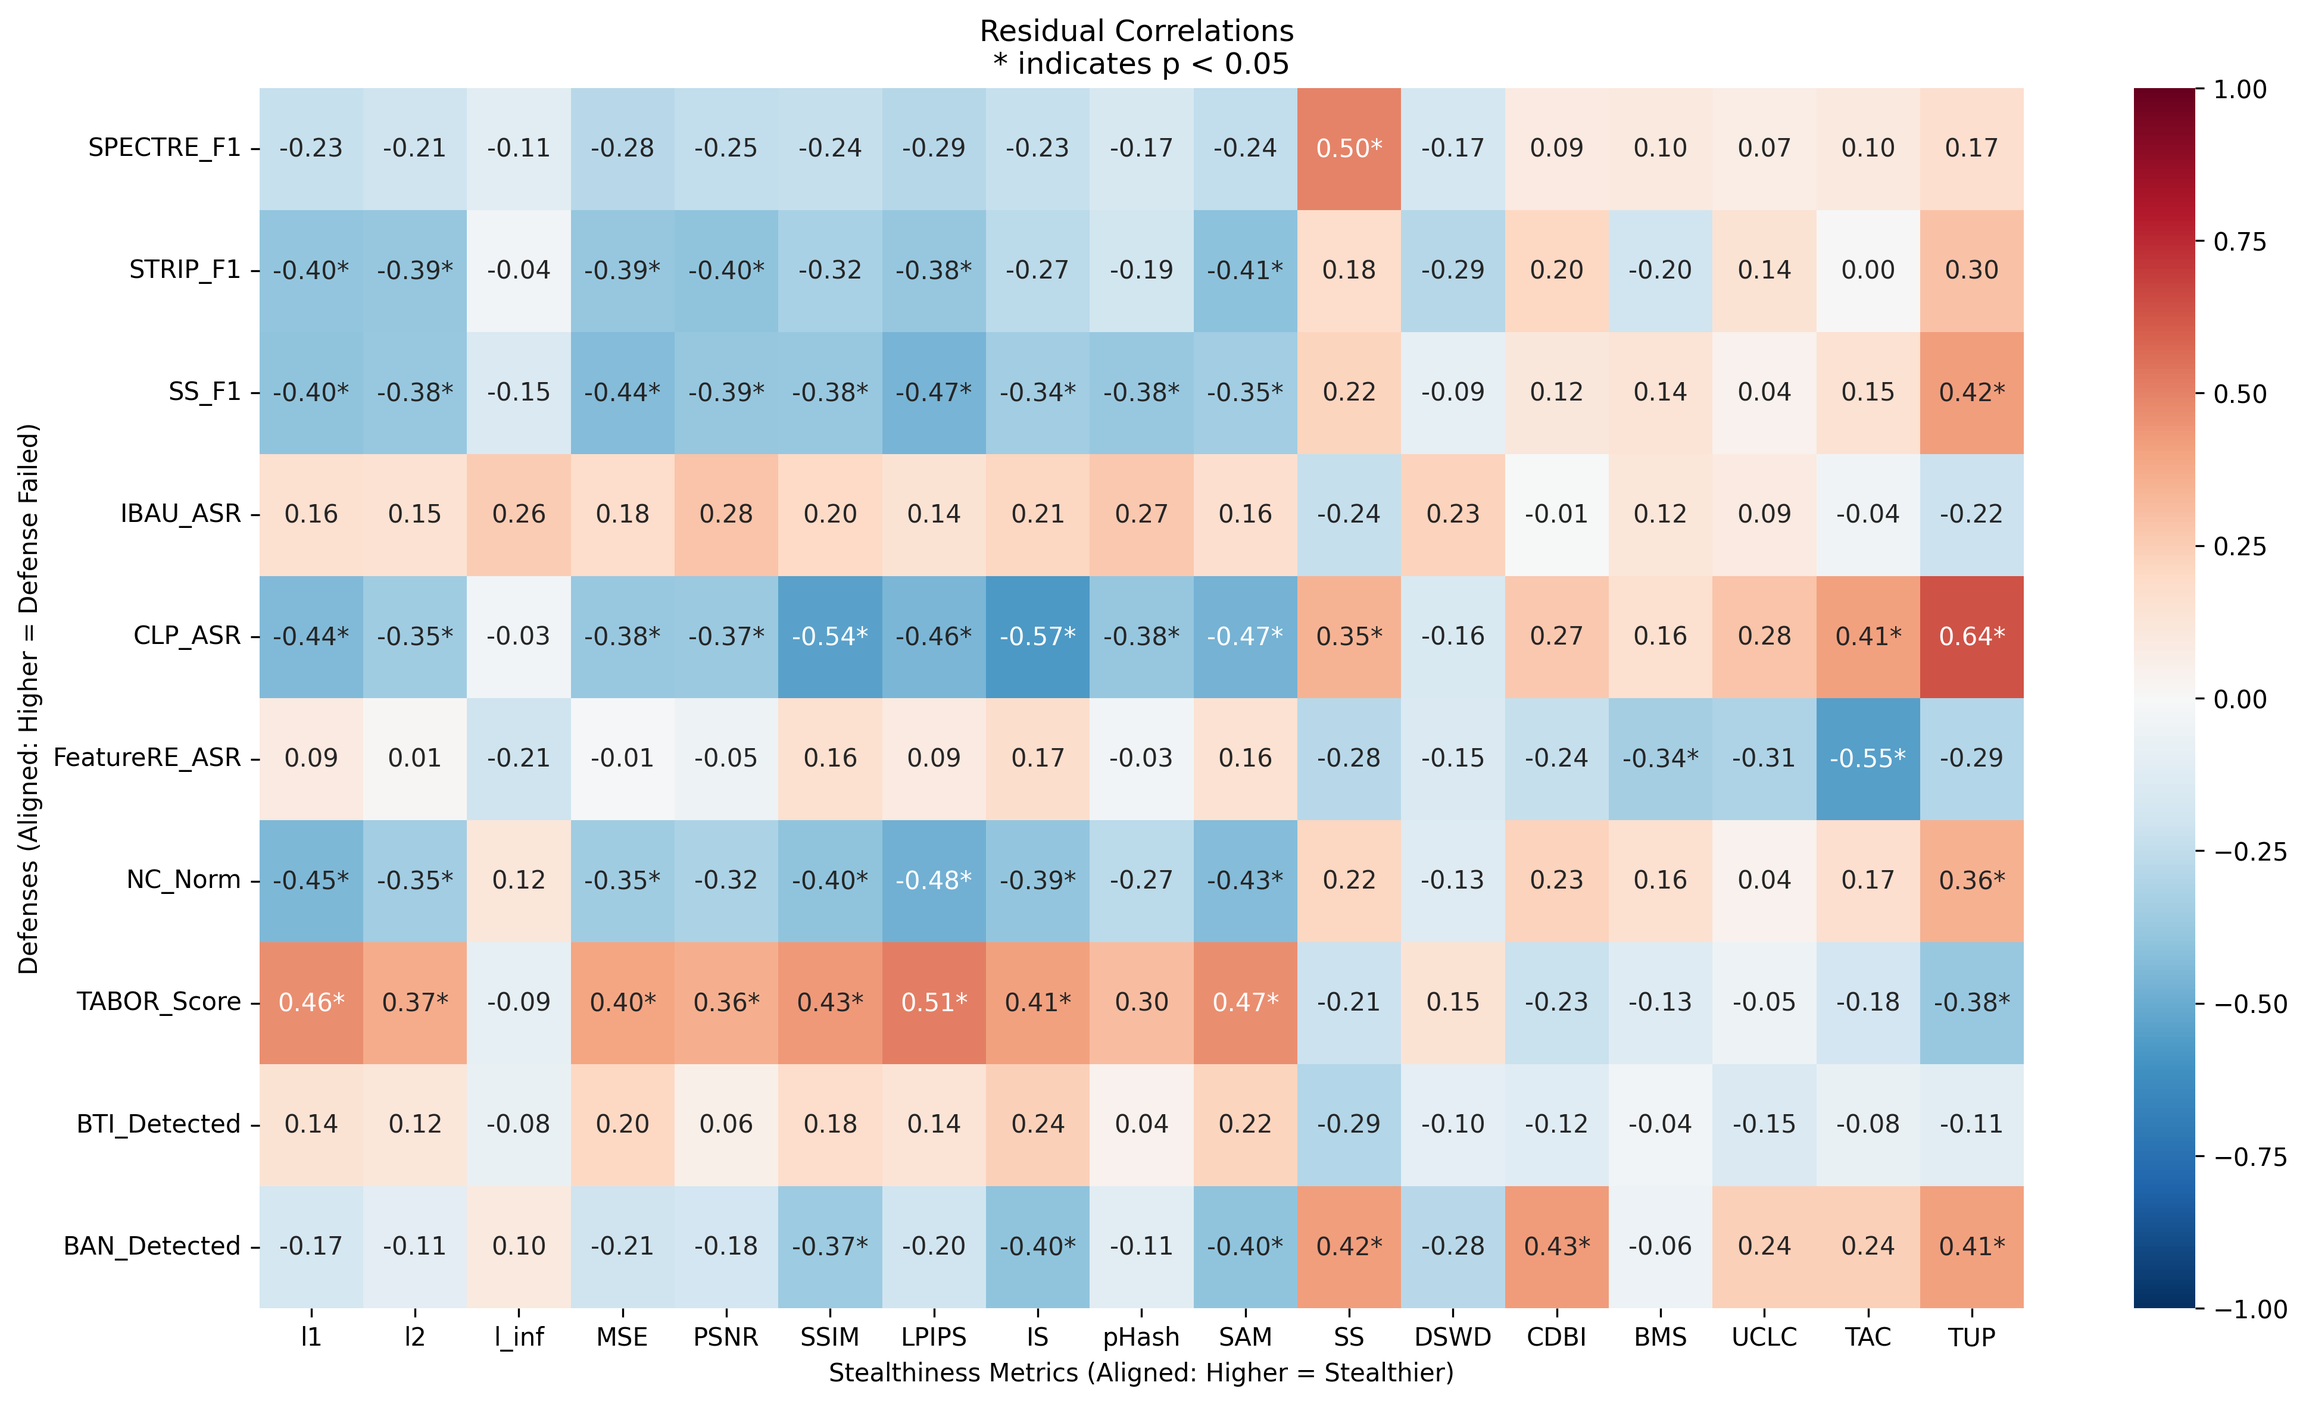
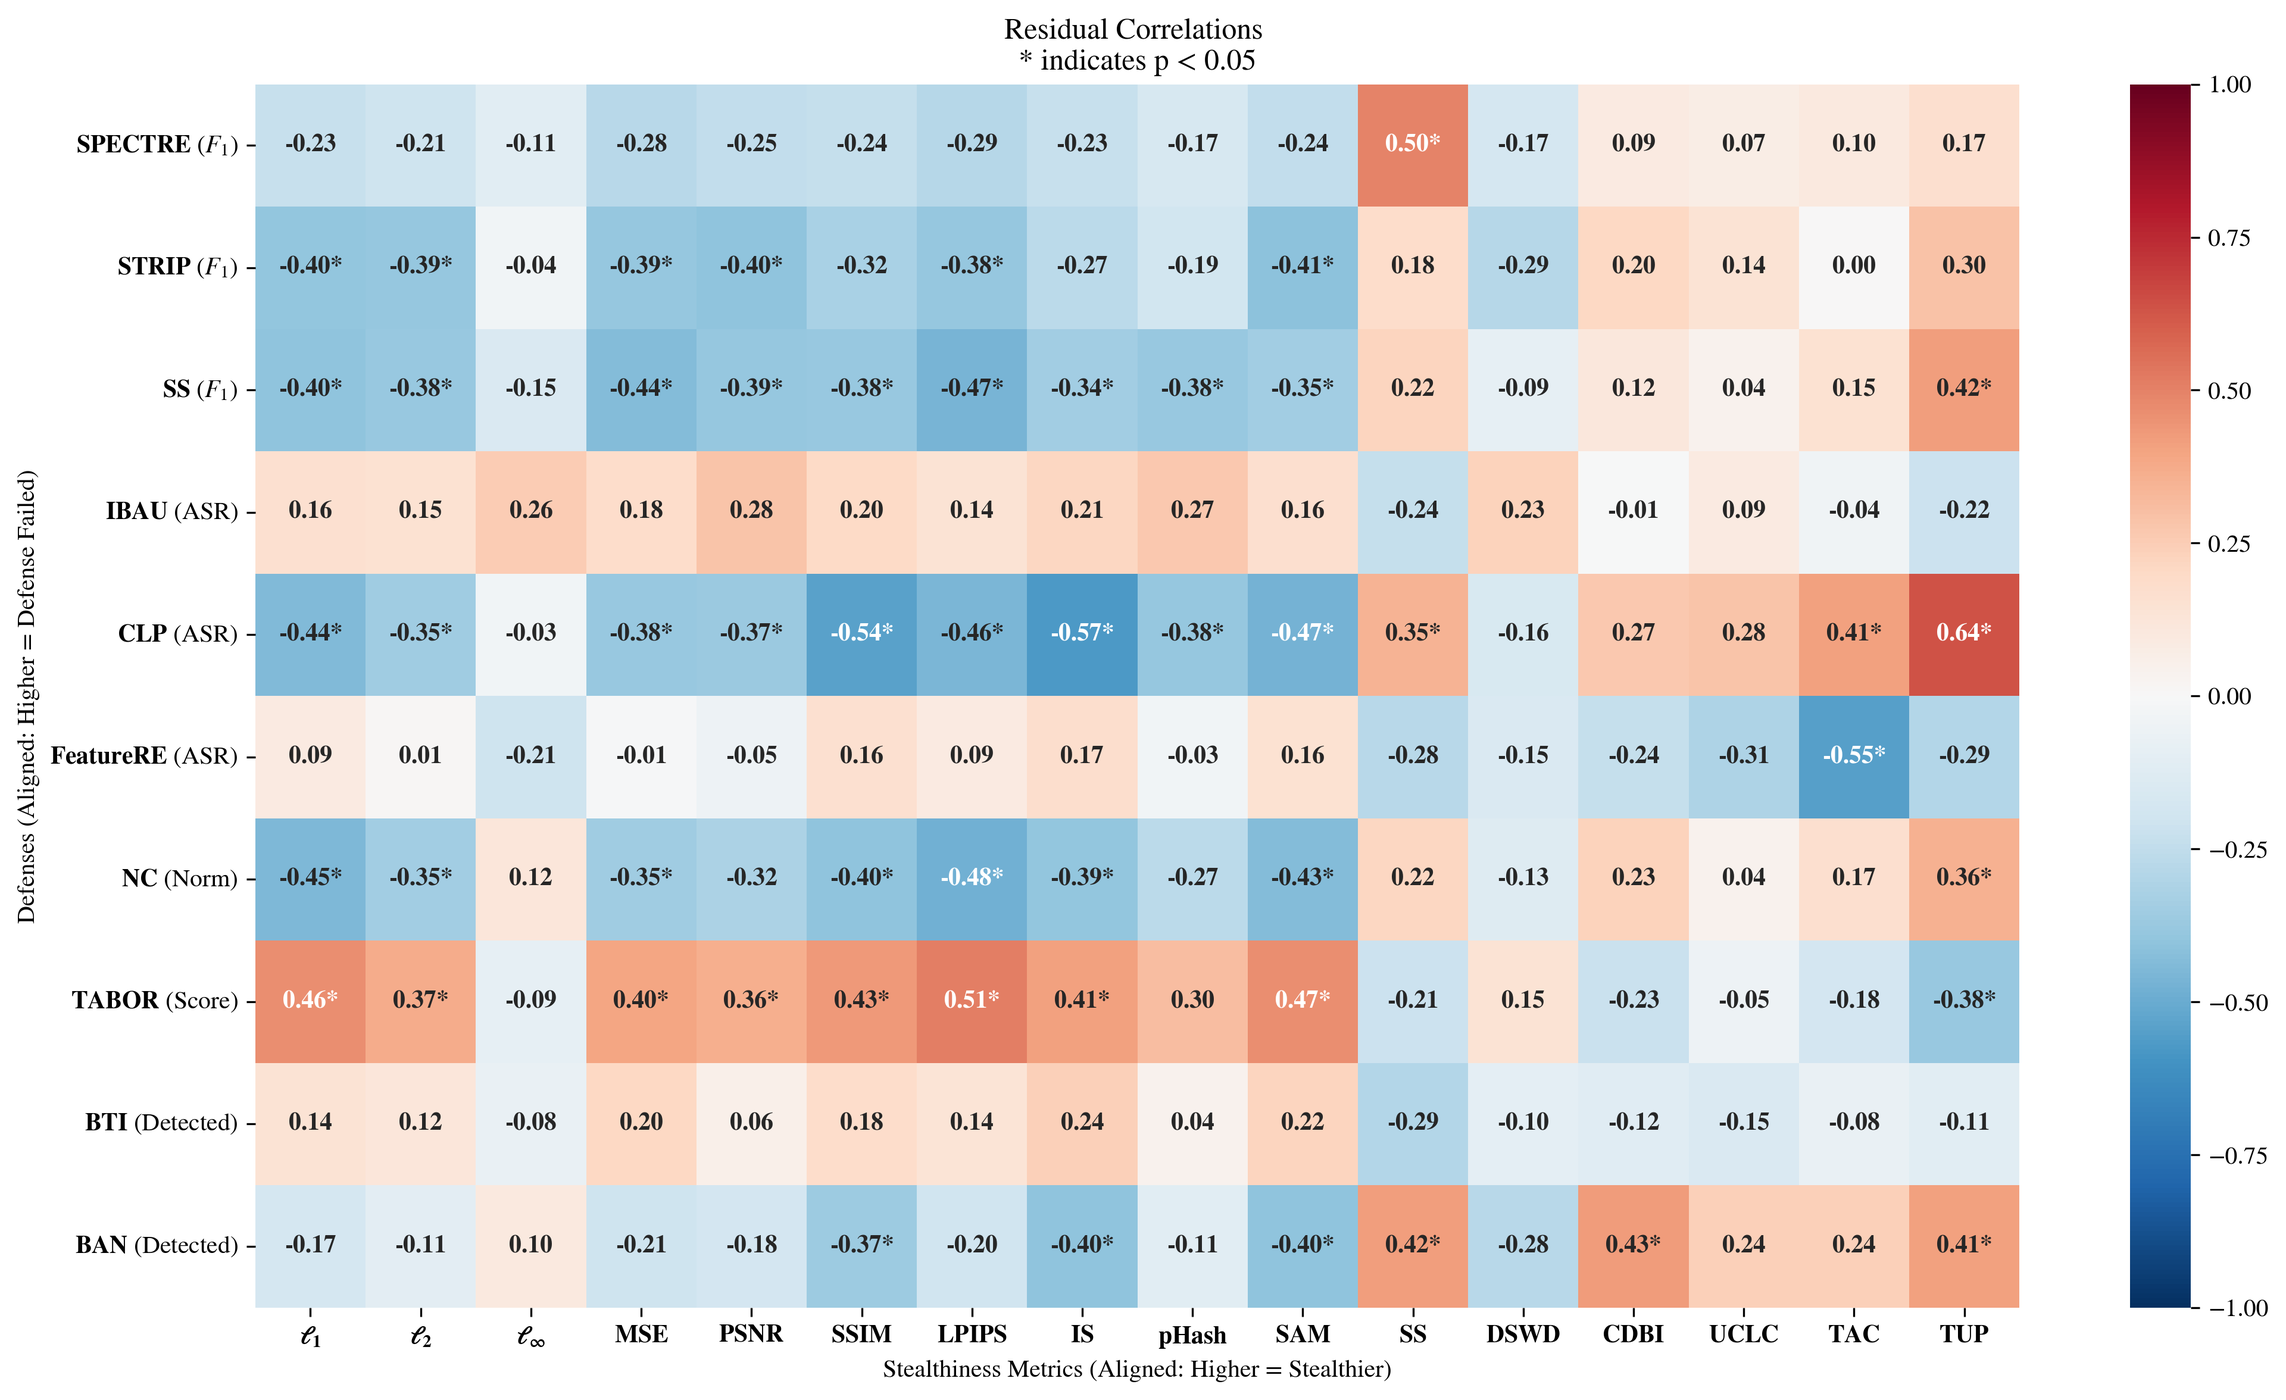
add tri-space calculating scripts

diff --git a/tri-space.py b/tri-space.py
@@ -1,0 +1,154 @@
+import pandas as pd
+import numpy as np
+from io import StringIO
+
+# ==========================================
+# 1. DATA ENTRY (Extracted from Tables 2, 3, 5)
+# ==========================================
+
+# HIGH POISONING RATE (Approx 5%)
+# Note: SSIM is generally constant across PR in Table 2, but TUP/SS change.
+csv_data_high = """DATASET,ATTACK,SSIM,SS,TUP
+CIFAR-10,BadNets,0.956,0.507,16.2
+CIFAR-10,Blend,0.784,0.473,3.68
+CIFAR-10,WaNet,0.978,0.382,9.30
+CIFAR-10,BppAttack,0.992,0.500,21.0
+CIFAR-10,Adap-Patch,0.956,0.254,8.38
+CIFAR-10,Adap-Blend,0.783,0.231,3.34
+CIFAR-10,DFST,0.719,0.519,3.70
+CIFAR-10,Narcissus,0.532,0.491,2.15
+CIFAR-10,Grond,0.934,0.435,1.87
+CIFAR-10,DFBA,0.992,NaN,10.2
+CIFAR-100,BadNets,0.955,0.511,27.7
+CIFAR-100,Blend,0.765,0.435,10.2
+CIFAR-100,WaNet,0.968,0.492,25.4
+CIFAR-100,BppAttack,0.991,0.527,52.4
+CIFAR-100,Adap-Patch,0.956,0.0600,13.4
+CIFAR-100,Adap-Blend,0.764,0.0382,9.93
+CIFAR-100,DFST,0.708,0.509,8.91
+CIFAR-100,Narcissus,0.630,0.0743,8.75
+CIFAR-100,Grond,0.929,0.233,8.86
+CIFAR-100,DFBA,0.993,NaN,10.6
+Tiny-ImageNet,BadNets,0.96,0.295,10.227
+Tiny-ImageNet,Blend,0.81,0.339,3.885
+Tiny-ImageNet,WaNet,0.93,0.342,7.078
+Tiny-ImageNet,BppAttack,0.99,0.433,34.275
+Tiny-ImageNet,Adap-Patch,0.99,0.067,3.522
+Tiny-ImageNet,Adap-Blend,0.79,0.213,3.209
+Tiny-ImageNet,DFST,0.68,0.485,3.063
+Tiny-ImageNet,Narcissus,0.36,0.314,3.192
+Tiny-ImageNet,Grond,0.8,0.327,3.236
+Tiny-ImageNet,DFBA,0.99,NaN,3.917
+Imagenette,BadNets,0.981,0.588,18.4
+Imagenette,Blend,0.697,0.0216,3.30
+Imagenette,WaNet,0.981,0.557,8.85
+Imagenette,BppAttack,0.983,0.607,13.9
+Imagenette,Adap-Patch,0.955,0.0822,5.72
+Imagenette,Adap-Blend,0.697,0.0630,3.29
+Imagenette,DFST,0.692,0.641,3.81
+Imagenette,Narcissus,0.615,0.0431,2.64
+Imagenette,Grond,0.882,0.0308,1.61
+Imagenette,DFBA,0.999,NaN,13.5"""
+
+# LOW POISONING RATE (Approx 0.3%)
+csv_data_low = """DATASET,ATTACK,SSIM,SS,TUP
+CIFAR-10,BadNets,0.956,0.355,23.1
+CIFAR-10,Blend,0.784,0.276,3.94
+CIFAR-10,WaNet,0.978,0.378,8.56
+CIFAR-10,BppAttack,0.992,0.371,10.9
+CIFAR-10,Adap-Patch,0.956,0.0500,10.2
+CIFAR-10,Adap-Blend,0.783,0.149,3.63
+CIFAR-10,DFST,0.719,0.339,4.47
+CIFAR-10,Narcissus,0.532,-0.0070,2.13
+CIFAR-10,Grond,0.934,-0.101,1.78
+CIFAR-10,DFBA,0.992,NaN,10.2
+CIFAR-100,BadNets,0.955,0.462,29.6
+CIFAR-100,Blend,0.765,0.379,10.8
+CIFAR-100,WaNet,0.968,0.217,22.1
+CIFAR-100,BppAttack,0.991,0.540,56.1
+CIFAR-100,Adap-Patch,0.956,0.0578,9.77
+CIFAR-100,Adap-Blend,0.764,0.191,11.2
+CIFAR-100,DFST,0.708,0.730,11.1
+CIFAR-100,Narcissus,0.630,0.0620,8.48
+CIFAR-100,Grond,0.929,0.208,8.64
+CIFAR-100,DFBA,0.993,NaN,10.6
+Tiny-ImageNet,BadNets,0.96,0.463,3.895
+Tiny-ImageNet,Blend,0.81,0.423,3.407
+Tiny-ImageNet,WaNet,0.93,0.303,3.657
+Tiny-ImageNet,BppAttack,0.99,0.347,3.578
+Tiny-ImageNet,Adap-Patch,0.99,0.245,3.495
+Tiny-ImageNet,Adap-Blend,0.79,0.311,3.451
+Tiny-ImageNet,DFST,0.68,0.63,3.093
+Tiny-ImageNet,Narcissus,0.36,0.302,3.25
+Tiny-ImageNet,Grond,0.8,0.355,3.368
+Tiny-ImageNet,DFBA,0.99,NaN,3.917
+Imagenette,BadNets,0.981,0.260,19.3
+Imagenette,Blend,0.697,0.0975,2.77
+Imagenette,WaNet,0.981,0.192,3.84
+Imagenette,BppAttack,0.983,0.227,1.56
+Imagenette,Adap-Patch,0.955,-0.0455,2.35
+Imagenette,Adap-Blend,0.697,-0.0657,2.45
+Imagenette,DFST,0.692,0.261,4.43
+Imagenette,Narcissus,0.615,-0.0164,2.13
+Imagenette,Grond,0.882,0.0546,1.05
+Imagenette,DFBA,0.999,NaN,13.5"""
+
+# ==========================================
+# 2. CALCULATION LOGIC
+# ==========================================
+
+def calculate_tri_space_metrics(group):
+    # --- Parameter Space Calibration (Median Anchor) ---
+    median_tup = group['TUP'].median()
+    
+    # Calculate lambda for TUP (ln(2) / median)
+    lambda_p = np.log(2) / median_tup if median_tup != 0 else 0
+    
+    # --- 1. Input Space Score (S_in) ---
+    # SSIM is already 0-1, where 1 is perfect stealth.
+    group['S_in'] = group['SSIM']
+    
+    # --- 2. Feature Space Score (S_feat) ---
+    # Metric: Silhouette Score (SS) in range [-1, 1].
+    # Logic: Lower SS is stealthier (more overlap).
+    # Formula: (1 - SS) / 2
+    #   If SS = -1 (Stealthy) -> (1 - (-1))/2 = 1.0 (High Score)
+    #   If SS =  1 (Distinct) -> (1 - 1)/2    = 0.0 (Low Score)
+    group['S_feat'] = (1 - group['SS']) / 2
+    
+    # --- 3. Parameter Space Score (S_param) ---
+    # Metric: TUP (Lower is stealthier).
+    # Logic: exp(-lambda * TUP)
+    group['S_param'] = np.exp(-lambda_p * group['TUP'])
+    
+    # --- 4. Tri-Space Aggregation ---
+    
+    # Worst-Case (Min)
+    group['s_min_tri'] = group[['S_in', 'S_feat', 'S_param']].min(axis=1)
+    
+    # Geometric Mean (Balanced)
+    # Note: If any score is NaN (like DFBA Feature), this returns NaN, which is correct.
+    group['s_geo_tri'] = np.power(group['S_in'] * group['S_feat'] * group['S_param'], 1/3)
+    
+    return group
+
+# ==========================================
+# 3. EXECUTION
+# ==========================================
+
+# Process High PR (5%)
+df_high = pd.read_csv(StringIO(csv_data_high))
+results_high = df_high.groupby('DATASET', group_keys=False).apply(calculate_tri_space_metrics)
+results_high[['DATASET', 'ATTACK', 's_min_tri', 's_geo_tri']].to_csv('tri_space_metrics_high.csv', index=False)
+
+# Process Low PR (0.3%)
+df_low = pd.read_csv(StringIO(csv_data_low))
+results_low = df_low.groupby('DATASET', group_keys=False).apply(calculate_tri_space_metrics)
+results_low[['DATASET', 'ATTACK', 's_min_tri', 's_geo_tri']].to_csv('tri_space_metrics_low.csv', index=False)
+
+# Display Preview of High PR Results
+print("--- RESULTS (High Poisoning Rate) ---")
+print(results_high[['DATASET', 'ATTACK', 's_min_tri', 's_geo_tri']].to_string(index=False))
+
+print("\n--- RESULTS (Low Poisoning Rate) ---")
+print(results_low[['DATASET', 'ATTACK', 's_min_tri', 's_geo_tri']].to_string(index=False))

diff --git a/tri-space_cdbi.py b/tri-space_cdbi.py
@@ -1,0 +1,153 @@
+import pandas as pd
+import numpy as np
+from io import StringIO
+
+# ==========================================
+# 1. DATA ENTRY (Extracted from Table V in PDF)
+# ==========================================
+
+# HIGH POISONING RATE (Approx 5%)
+# Note: SSIM values are generally stable, but CDBI/TUP change with PR.
+# SSIM values are taken from Table II (using test set if available).
+csv_data_high_cdbi = """DATASET,ATTACK,SSIM,CDBI,TUP
+CIFAR-10,BadNets,0.956,0.574,16.2
+CIFAR-10,Blend,0.784,0.738,3.68
+CIFAR-10,WaNet,0.978,0.641,9.30
+CIFAR-10,BppAttack,0.992,0.640,21.0
+CIFAR-10,Adap-Patch,0.956,1.29,8.38
+CIFAR-10,Adap-Blend,0.783,1.66,3.34
+CIFAR-10,DFST,0.719,0.650,3.70
+CIFAR-10,Narcissus,0.532,0.767,2.15
+CIFAR-10,Grond,0.934,0.868,1.87
+CIFAR-10,DFBA,0.992,NaN,10.2
+CIFAR-100,BadNets,0.955,0.424,27.7
+CIFAR-100,Blend,0.765,0.620,10.2
+CIFAR-100,WaNet,0.968,0.409,25.4
+CIFAR-100,BppAttack,0.991,0.477,52.4
+CIFAR-100,Adap-Patch,0.956,1.19,13.4
+CIFAR-100,Adap-Blend,0.764,1.24,9.93
+CIFAR-100,DFST,0.708,0.475,8.91
+CIFAR-100,Narcissus,0.630,3.47,8.75
+CIFAR-100,Grond,0.929,1.95,8.86
+CIFAR-100,DFBA,0.993,NaN,10.6
+Tiny-ImageNet,BadNets,0.96,0.646,10.227
+Tiny-ImageNet,Blend,0.81,0.53,3.885
+Tiny-ImageNet,WaNet,0.93,0.523,7.078
+Tiny-ImageNet,BppAttack,0.99,0.584,34.275
+Tiny-ImageNet,Adap-Patch,0.99,1.841,3.522
+Tiny-ImageNet,Adap-Blend,0.79,0.916,3.209
+Tiny-ImageNet,DFST,0.68,0.475,3.063
+Tiny-ImageNet,Narcissus,0.36,1.107,3.192
+Tiny-ImageNet,Grond,0.8,1.074,3.236
+Tiny-ImageNet,DFBA,0.99,NaN,3.917
+Imagenette,BadNets,0.981,0.418,18.4
+Imagenette,Blend,0.697,3.07,3.30
+Imagenette,WaNet,0.981,0.571,8.85
+Imagenette,BppAttack,0.983,0.518,13.9
+Imagenette,Adap-Patch,0.955,2.90,5.72
+Imagenette,Adap-Blend,0.697,3.00,3.29
+Imagenette,DFST,0.692,0.476,3.81
+Imagenette,Narcissus,0.615,4.27,2.64
+Imagenette,Grond,0.882,24.0,1.61
+Imagenette,DFBA,0.999,NaN,13.5"""
+
+# LOW POISONING RATE (Approx 0.3%)
+csv_data_low_cdbi = """DATASET,ATTACK,SSIM,CDBI,TUP
+CIFAR-10,BadNets,0.956,0.627,23.1
+CIFAR-10,Blend,0.784,0.796,3.94
+CIFAR-10,WaNet,0.978,0.644,8.56
+CIFAR-10,BppAttack,0.992,0.519,10.9
+CIFAR-10,Adap-Patch,0.956,3.42,10.2
+CIFAR-10,Adap-Blend,0.783,5.19,3.63
+CIFAR-10,DFST,0.719,0.550,4.47
+CIFAR-10,Narcissus,0.532,5.92,2.13
+CIFAR-10,Grond,0.934,5.81,1.78
+CIFAR-10,DFBA,0.992,NaN,10.2
+CIFAR-100,BadNets,0.955,0.534,29.6
+CIFAR-100,Blend,0.765,0.911,10.8
+CIFAR-100,WaNet,0.968,1.54,22.1
+CIFAR-100,BppAttack,0.991,0.436,56.1
+CIFAR-100,Adap-Patch,0.956,2.27,9.77
+CIFAR-100,Adap-Blend,0.764,1.53,11.2
+CIFAR-100,DFST,0.708,0.260,11.1
+CIFAR-100,Narcissus,0.630,4.34,8.48
+CIFAR-100,Grond,0.929,1.53,8.64
+CIFAR-100,DFBA,0.993,NaN,10.6
+Tiny-ImageNet,BadNets,0.96,0.624,3.895
+Tiny-ImageNet,Blend,0.81,0.576,3.407
+Tiny-ImageNet,WaNet,0.93,1.377,3.657
+Tiny-ImageNet,BppAttack,0.99,0.637,3.578
+Tiny-ImageNet,Adap-Patch,0.99,0.622,3.495
+Tiny-ImageNet,Adap-Blend,0.79,0.497,3.451
+Tiny-ImageNet,DFST,0.68,0.353,3.093
+Tiny-ImageNet,Narcissus,0.36,1.434,3.25
+Tiny-ImageNet,Grond,0.8,1.19,3.368
+Tiny-ImageNet,DFBA,0.99,NaN,3.917
+Imagenette,BadNets,0.981,0.871,19.3
+Imagenette,Blend,0.697,2.20,2.77
+Imagenette,WaNet,0.981,0.809,3.84
+Imagenette,BppAttack,0.983,0.854,1.56
+Imagenette,Adap-Patch,0.955,4.45,2.35
+Imagenette,Adap-Blend,0.697,12.3,2.45
+Imagenette,DFST,0.692,0.934,4.43
+Imagenette,Narcissus,0.615,7.54,2.13
+Imagenette,Grond,0.882,12.4,1.05
+Imagenette,DFBA,0.999,NaN,13.5"""
+
+# ==========================================
+# 2. CALCULATION LOGIC (Using CDBI Formulation)
+# ==========================================
+
+def calculate_tri_space_cdbi_metrics(group):
+    # --- Median Anchor Calibration ---
+    # We calibrate lambda based on the median of the current group/dataset
+    median_cdbi = group['CDBI'].median()
+    median_tup = group['TUP'].median()
+    
+    # Calculate lambdas
+    lambda_f = np.log(2) / median_cdbi if median_cdbi != 0 else 0
+    lambda_p = np.log(2) / median_tup if median_tup != 0 else 0
+    
+    # --- 1. Input Space Score (S_in) ---
+    group['S_in'] = group['SSIM']
+    
+    # --- 2. Feature Space Score (S_feat) - USING CDBI ---
+    # Formula: 1 - exp(-lambda * CDBI)
+    # Higher CDBI = Stealthier (closer to 1)
+    group['S_feat'] = 1 - np.exp(-lambda_f * group['CDBI'])
+    
+    # --- 3. Parameter Space Score (S_param) ---
+    # Formula: exp(-lambda * TUP)
+    # Lower TUP = Stealthier (closer to 1)
+    group['S_param'] = np.exp(-lambda_p * group['TUP'])
+    
+    # --- 4. Tri-Space Aggregation ---
+    
+    # Worst-Case (Min)
+    group['s_min_tri'] = group[['S_in', 'S_feat', 'S_param']].min(axis=1)
+    
+    # Geometric Mean (Balanced)
+    group['s_geo_tri'] = np.power(group['S_in'] * group['S_feat'] * group['S_param'], 1/3)
+    
+    return group
+
+# ==========================================
+# 3. EXECUTION
+# ==========================================
+
+# Process High PR (5%) with CDBI
+df_high = pd.read_csv(StringIO(csv_data_high_cdbi))
+results_high = df_high.groupby('DATASET', group_keys=False).apply(calculate_tri_space_cdbi_metrics)
+results_high[['DATASET', 'ATTACK', 's_min_tri', 's_geo_tri']].to_csv('tri_space_metrics_cdbi_high.csv', index=False)
+
+# Process Low PR (0.3%) with CDBI
+df_low = pd.read_csv(StringIO(csv_data_low_cdbi))
+results_low = df_low.groupby('DATASET', group_keys=False).apply(calculate_tri_space_cdbi_metrics)
+results_low[['DATASET', 'ATTACK', 's_min_tri', 's_geo_tri']].to_csv('tri_space_metrics_cdbi_low.csv', index=False)
+
+# Display Preview
+print("--- CDBI RESULTS (High Poisoning Rate) ---")
+print(results_high[['DATASET', 'ATTACK', 's_min_tri', 's_geo_tri']].to_string(index=False))
+
+print("\n--- CDBI RESULTS (Low Poisoning Rate) ---")
+print(results_low[['DATASET', 'ATTACK', 's_min_tri', 's_geo_tri']].to_string(index=False))

diff --git a/latex_files/residual_corr.py b/latex_files/residual_corr.py
@@ -100,7 +100,49 @@ def calculate_residuals_heatmap(data, metric_cols, defense_cols):
 # ==========================================
 # 3. PLOTTING FUNCTION WITH MASKING
 # ==========================================
+# Label mapping for proper LaTeX rendering (using mathbf for bold math font)
+LABEL_MAP = {
+    # ===== INPUT-SPACE METRICS =====
+    'l1': r'$\mathbf{\ell_1}$',
+    'l2': r'$\mathbf{\ell_2}$',
+    'l_inf': r'$\mathbf{\ell_\infty}$',
+    'MSE': r'$\mathbf{MSE}$',
+    'PSNR': r'$\mathbf{PSNR}$',
+    'SSIM': r'$\mathbf{SSIM}$',
+    'LPIPS': r'$\mathbf{LPIPS}$',
+    'IS': r'$\mathbf{IS}$',
+    'pHash': r'$\mathbf{pHash}$',
+    'SAM': r'$\mathbf{SAM}$',
+    
+    # ===== FEATURE-SPACE METRICS =====
+    'SS': r'$\mathbf{SS}$',
+    'DSWD': r'$\mathbf{DSWD}$',
+    'CDBI': r'$\mathbf{CDBI}$',
+    'BMS': r'$\mathbf{BMS}$',
+    
+    # ===== PARAMETER-SPACE METRICS =====
+    'UCLC': r'$\mathbf{UCLC}$',
+    'TAC': r'$\mathbf{TAC}$',
+    'TUP': r'$\mathbf{TUP}$',
+    
+    # ===== DEFENSES =====
+    'SPECTRE_F1': r'$\mathbf{SPECTRE}$ $(F_1)$',
+    'STRIP_F1': r'$\mathbf{STRIP}$ $(F_1)$',
+    'SS_F1': r'$\mathbf{SS}$ $(F_1)$',
+    'IBAU_ASR': r'$\mathbf{IBAU}$ (ASR)',
+    'CLP_ASR': r'$\mathbf{CLP}$ (ASR)',
+    'FeatureRE_ASR': r'$\mathbf{FeatureRE}$ (ASR)',
+    'NC_Norm': r'$\mathbf{NC}$ (Norm)',
+    'TABOR_Score': r'$\mathbf{TABOR}$ (Score)',
+    'BTI_Detected': r'$\mathbf{BTI}$ (Detected)',
+    'BAN_Detected': r'$\mathbf{BAN}$ (Detected)',
+}
+
 def plot_significance_heatmap(corr_data, p_data, title, filename):
+    # Set math font to STIX (similar to Times/Computer Modern - classic math look)
+    plt.rcParams['mathtext.fontset'] = 'stix'
+    plt.rcParams['font.family'] = 'STIXGeneral'
+    
     plt.figure(figsize=(14, 8))
     
     # Create annotation labels: Show value only if p < 0.05
@@ -121,14 +163,22 @@ def plot_significance_heatmap(corr_data, p_data, title, filename):
                 # OPTION 2: Hide insignificant values (Uncomment below to use)
                 # annot_labels.loc[r, c] = "" 
 
-    sns.heatmap(
+    ax = sns.heatmap(
         corr_data, 
         annot=annot_labels, 
         fmt="", 
         cmap='RdBu_r', # Red = Positive (Good Metric), Blue = Negative (Bad Metric)
         center=0,
-        vmin=-1, vmax=1
+        vmin=-1, vmax=1,
+        annot_kws={'fontweight': 'bold'}
     )
+    
+    # Apply label mapping for proper math symbols
+    new_xticklabels = [LABEL_MAP.get(label.get_text(), label.get_text()) for label in ax.get_xticklabels()]
+    new_yticklabels = [LABEL_MAP.get(label.get_text(), label.get_text()) for label in ax.get_yticklabels()]
+    ax.set_xticklabels(new_xticklabels)
+    ax.set_yticklabels(new_yticklabels)
+    
     plt.title(title)
     plt.xlabel("Stealthiness Metrics (Aligned: Higher = Stealthier)")
     plt.ylabel("Defenses (Aligned: Higher = Defense Failed)")
@@ -170,7 +220,7 @@ plot_significance_heatmap(
 # ==========================================
 all_metrics = [
     'l1', 'l2', 'l_inf', 'MSE', 'PSNR', 'SSIM', 'LPIPS', 'IS', 'pHash', 'SAM',
-    'SS', 'DSWD', 'CDBI', 'BMS', 'UCLC', 'TAC', 'TUP'
+    'SS', 'DSWD', 'CDBI', 'UCLC', 'TAC', 'TUP'
 ]
 
 all_defenses = [
